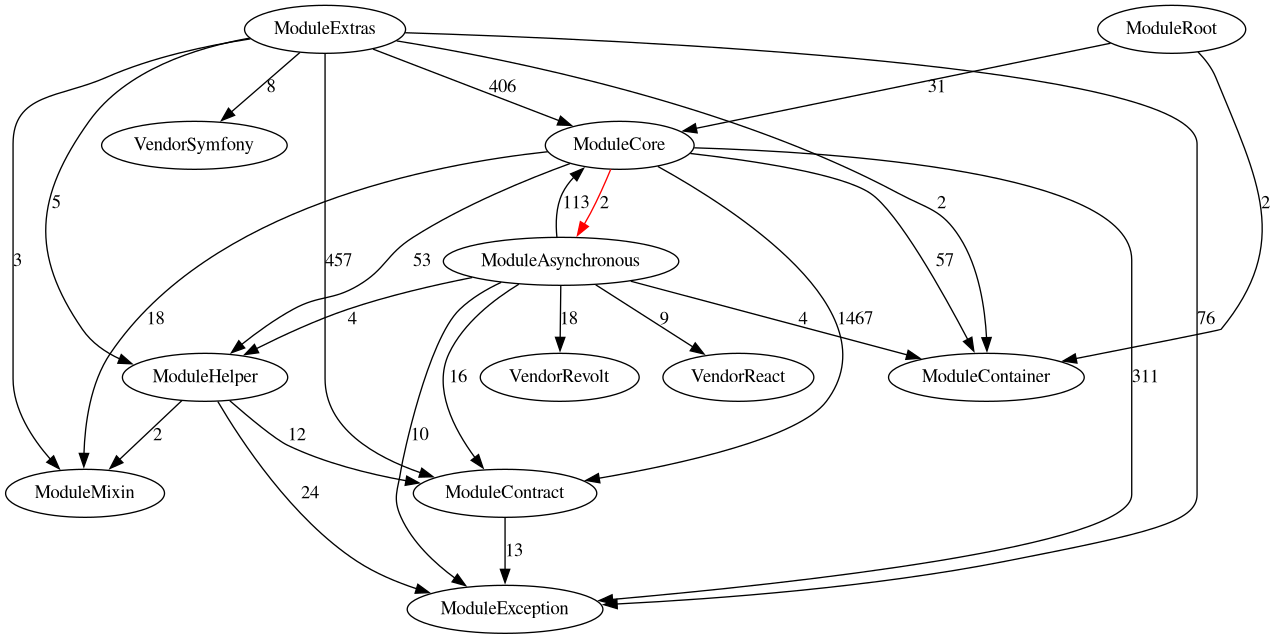
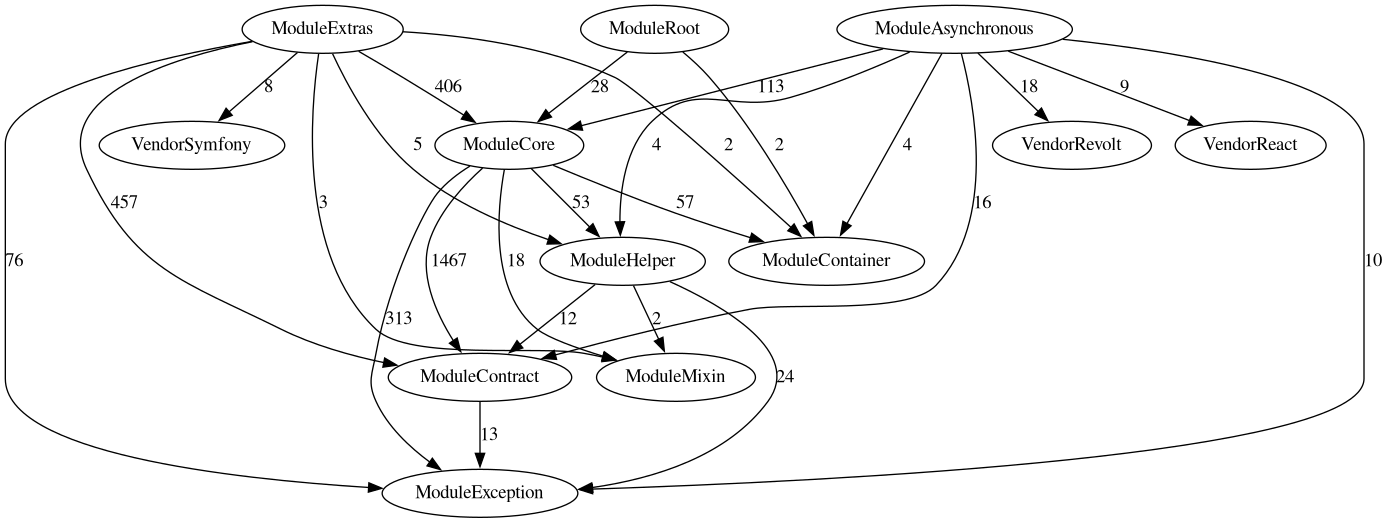
~

diff --git a/src/Spinner/Core/ContainerFactory.php b/src/Spinner/Core/ContainerFactory.php
@@ -4,7 +4,6 @@ declare(strict_types=1);
 // 29.03.23
 namespace AlecRabbit\Spinner\Core;
 
-use AlecRabbit\Spinner\Asynchronous\Factory\LoopProbeFactory;
 use AlecRabbit\Spinner\Container\Container;
 use AlecRabbit\Spinner\Container\Contract\IContainer;
 use AlecRabbit\Spinner\Core\Config\ConfigBuilder;
@@ -26,6 +25,7 @@ use AlecRabbit\Spinner\Core\Factory\SpinnerFactory;
 use AlecRabbit\Spinner\Core\Revolver\Contract\IFrameRevolverBuilder;
 use AlecRabbit\Spinner\Core\Widget\Contract\IWidgetBuilder;
 use AlecRabbit\Spinner\Core\Widget\Contract\IWidgetRevolverBuilder;
+use AlecRabbit\Spinner\Exception\DomainException;
 use ArrayObject;
 use Closure;
 use Traversable;
@@ -72,7 +72,9 @@ final class ContainerFactory implements IContainerFactory
                 IDriverBuilder::class => $instanceProducer(DriverBuilder::class),
                 IWidgetBuilder::class => $instanceProducer(WidgetBuilder::class),
                 IWidgetRevolverBuilder::class => $instanceProducer(WidgetRevolverBuilder::class),
-                ILoopProbeFactory::class => $instanceProducer(LoopProbeFactory::class),
+                ILoopProbeFactory::class => static function (): never {
+                    throw new DomainException('LoopProbeFactory is not available in this context.');
+                },
                 IRevolverFactory::class => $instanceProducer(RevolverFactory::class),
                 IFrameRevolverBuilder::class => $instanceProducer(FrameRevolverBuilder::class),
                 ISpinnerFactory::class => $instanceProducer(SpinnerFactory::class),

diff --git a/src/Spinner/Facade.php b/src/Spinner/Facade.php
@@ -9,12 +9,10 @@ use AlecRabbit\Spinner\Core\Config\Contract\IConfig;
 use AlecRabbit\Spinner\Core\Config\Contract\IConfigBuilder;
 use AlecRabbit\Spinner\Core\Contract\IFacade;
 use AlecRabbit\Spinner\Core\Contract\ILoopAdapter;
-use AlecRabbit\Spinner\Core\Contract\ILoopProbeFactory;
 use AlecRabbit\Spinner\Core\Contract\ISpinner;
 use AlecRabbit\Spinner\Core\Factory\Contract\ILoopFactory;
 use AlecRabbit\Spinner\Core\Factory\Contract\ISpinnerFactory;
 use AlecRabbit\Spinner\Core\Factory\LoopFactory;
-use AlecRabbit\Spinner\Core\Factory\SpinnerFactory;
 
 final class Facade extends AContainerAware implements IFacade
 {
@@ -27,7 +25,6 @@ final class Facade extends AContainerAware implements IFacade
     protected static function getSpinnerFactory(): ISpinnerFactory
     {
         return self::getContainer()->get(ISpinnerFactory::class);
-//        return new SpinnerFactory(self::getContainer());
     }
 
     public static function getConfigBuilder(): IConfigBuilder
@@ -46,9 +43,6 @@ final class Facade extends AContainerAware implements IFacade
     {
         $container = self::getContainer();
         return
-            new LoopFactory(
-                $container,
-                $container->get(ILoopProbeFactory::class)
-            );
+            new LoopFactory($container);
     }
 }
